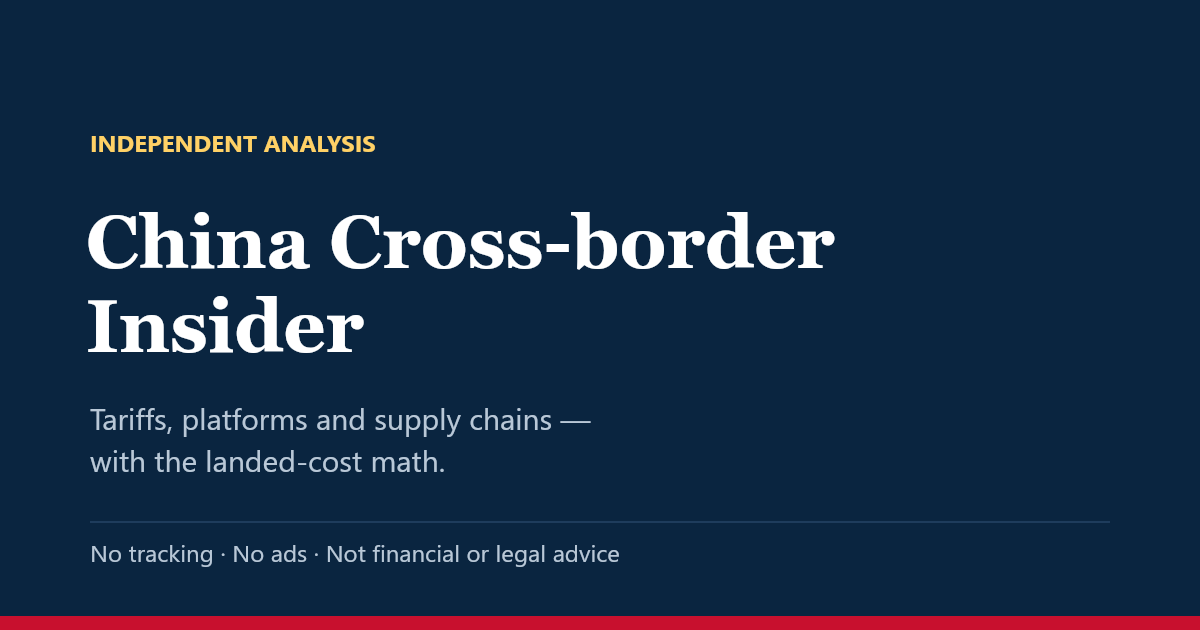
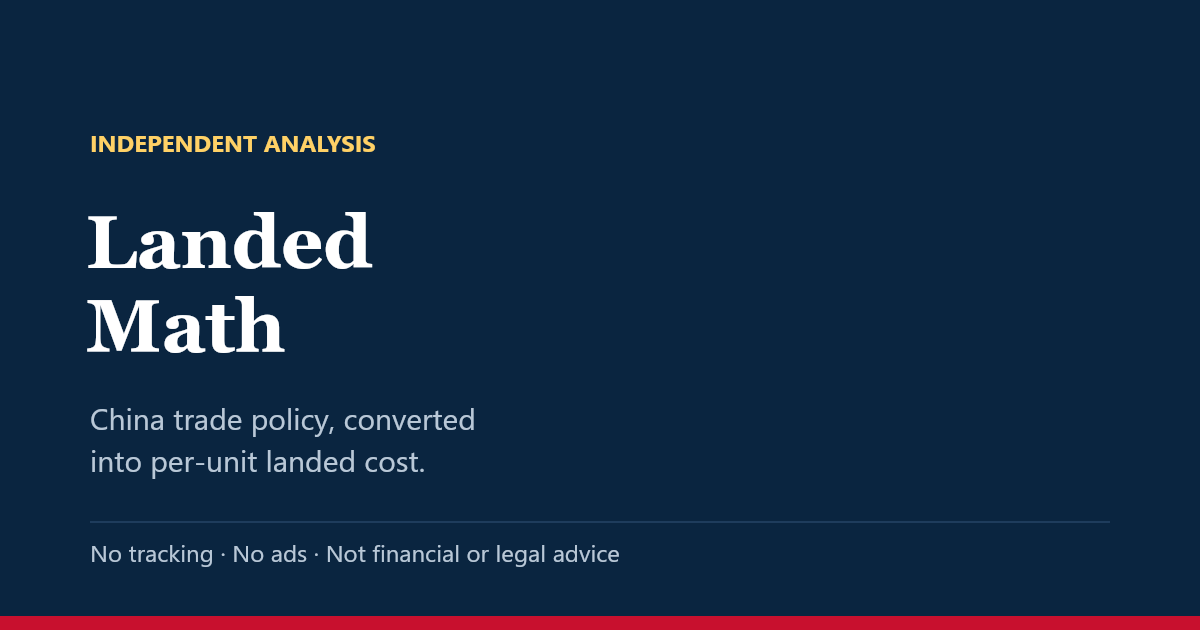
rebrand: China Cross-border Insider -> Landed Math on landedmath.com
- SITE_URL now points at the registered domain landedmath.com

- Site name, title, description, favicon monogram and OG card regenerated

- Author aligned to spec v1.2 section 11: pen name V, China Supply Chain Analyst / Shenzhen

- Article JSON-LD author gains jobTitle (E-E-A-T)

- Placeholder posts: fabricated 'seller panel' sources relabelled as illustrative

- README: rename note, deploy status, resolved domain item

diff --git a/src/consts.ts b/src/consts.ts
@@ -4,21 +4,20 @@
  * navigation or the author persona lives here — not scattered in components.
  */
 
-/** Cloudflare Pages production URL.
- *  TODO(user): switch to the custom domain once it is registered and bound
- *  in Cloudflare Pages. Everything SEO-related — canonical, sitemap, RSS,
- *  og:image — derives from this single value, so changing it here is enough. */
-export const SITE_URL = "https://china-cross-border-insider.pages.dev";
+/** Production domain (registered 2026-10-01).
+ *  Everything SEO-related — canonical, sitemap, RSS, og:image — derives from
+ *  this single value, so changing it here is enough. */
+export const SITE_URL = "https://landedmath.com";
 
 export const SITE = {
   url: SITE_URL,
-  name: "China Cross-border Insider",
-  /** Rendered as "China Cross-border <em>Insider</em>" in the logo. */
-  nameHead: "China Cross-border",
-  nameTail: "Insider",
-  title: "China Cross-border Insider — Deep analysis on China trade & e-commerce",
+  name: "Landed Math",
+  /** Rendered as "Landed <em>Math</em>" in the logo. */
+  nameHead: "Landed",
+  nameTail: "Math",
+  title: "Landed Math — China trade policy, converted into landed cost",
   description:
-    "Independent, numbers-first analysis of China cross-border trade, tariffs, platforms and supply chains — written for Amazon, Temu, TikTok Shop and D2C sellers.",
+    "Independent, numbers-first analysis of China trade policy, platform rules and supply chains — converted into per-unit landed cost for Amazon, Temu, TikTok Shop and D2C sellers.",
   tagline: "No tracking · No ads · Independent analysis · Not financial or legal advice",
   language: "en",
   /** Newsletter placeholder — swap for the real provider (Buttondown / ConvertKit) later. */
@@ -61,17 +60,18 @@ export const CATEGORIES = [
 
 export type CategorySlug = (typeof CATEGORIES)[number]["slug"];
 
-/** spec §1 + §6 — persona. Placeholder text until the user supplies real details. */
+/** spec v1.2 §11 — pen name, role and location. */
 export const AUTHOR = {
-  name: "Cross-border Veteran",
-  initials: "CV",
+  name: "V",
+  initials: "V",
+  role: "China Supply Chain Analyst · Shenzhen",
   avatar: "", // e.g. "/images/author.jpg" once a real photo exists
   shortBio:
-    "10 years selling on Amazon, Temu, TikTok Shop and D2C. Broke everything once. Here so you don't have to.",
+    "China Supply Chain Analyst. Based in Shenzhen, tracking trade policy, platform rules and factory-level cost shifts for global sellers.",
   longBio:
-    "10 years in cross-border e-commerce. Based in China, selling globally. No agency, no sponsorship, no agenda.",
-  /** TODO(user): replace with the real contact mailbox. */
-  email: "hello@crossborderinsider.pages.dev",
+    "China Supply Chain Analyst, based in Shenzhen. Tracking trade policy, platform rules and factory-level cost shifts for sellers in the US and EU. No agency, no sponsorship, no agenda.",
+  /** TODO(user): enable Cloudflare Email Routing so this address actually delivers. */
+  email: "hello@landedmath.com",
 };
 
 /** spec §3 — footer. */

diff --git a/src/styles/global.css b/src/styles/global.css
@@ -436,6 +436,15 @@ a {
   margin-bottom: 4px;
 }
 
+.author-card .author-role {
+  font-size: 11px;
+  text-transform: uppercase;
+  letter-spacing: 1px;
+  color: var(--c-red);
+  font-weight: 600;
+  margin-bottom: 8px;
+}
+
 .author-card p {
   font-size: 12px;
   color: var(--c-ink-5);

diff --git a/README.md b/README.md
@@ -1,6 +1,10 @@
-# China Cross-border Insider
+# Landed Math
 
-跨境英文内容站（暂定名）。技术栈：**Astro 7 + GitHub + Cloudflare Pages**，纯静态、无服务器、无数据库。
+> **2026-10-01 改名**：项目原名 "China Cross-border Insider"（暂定名），域名 `crossborderinsider.com` 已被占用，
+> 正式定名为 **Landed Math**（域名 `landedmath.com`）。改名同时避开了与 Business Insider 的商标临近风险。
+> 仓库名与 Cloudflare Pages 项目名仍是历史名 `china-cross-border-insider`，不影响使用。
+
+跨境英文内容站。技术栈：**Astro 7 + GitHub + Cloudflare Pages**，纯静态、无服务器、无数据库。
 
 本仓库有三层内容，对应三个文件/目录：
 
@@ -202,15 +206,17 @@ Hook 段（不写小标题，直接抛反常识问题）
 
 ## 五、部署到 Cloudflare Pages
 
-1. 把本目录推到 GitHub 仓库。
-2. Cloudflare Pages → Create project → Connect to Git，选该仓库。
-3. 构建设置：
+**状态：已上线** —— 仓库 `tmj518/china-cross-border-insider`，CF Pages 项目同名，正式域名 `landedmath.com`。
+
+1. ~~推到 GitHub 仓库~~ ✅
+2. ~~Cloudflare Pages → Create project → Connect to Git~~ ✅
+3. 构建设置（已配置）：
    - Framework preset：**Astro**
    - Build command：`pnpm build`
    - Build output directory：`dist`
-   - Node 版本：读取 `.nvmrc`（24），或设环境变量 `NODE_VERSION=24`
-4. 部署后把域名填回 `src/consts.ts` 的 `SITE_URL`（现在临时用 `crossborderinsider.pages.dev`），
-   canonical / sitemap / RSS / og:image 全部从这一处取值，改一处即可。
+   - 环境变量：`NODE_VERSION=24`
+4. ~~域名~~ ✅ 已注册 `landedmath.com` 并绑定到 CF Pages 的 Custom domains；
+   `src/consts.ts` 的 `SITE_URL` 已指向它 —— canonical / sitemap / RSS / og:image 全部从这一处取值，改一处即可。
 
 ## 六、相对原型做的改动
 
@@ -234,10 +240,10 @@ Hook 段（不写小标题，直接抛反常识问题）
 
 | # | 事项 | 现状 |
 | --- | --- | --- |
-| 1 | **正式域名** | 临时用 `crossborderinsider.pages.dev`，见 `src/consts.ts` |
+| 1 | ~~**正式域名**~~ | ✅ 已定 `landedmath.com`（2026-10-01 注册，Cloudflare Registrar，$10.46/年） |
 | 2 | **金色 `#ffd166`** | 规范 §3 只定义了三色，原型多用了这个金色（kicker / 页脚 hover）。要么写进规范，要么去掉 |
 | 3 | **P0/P1/P2 体系** | 规范里没有定义，原型已在用。需要补一段判定标准 |
-| 4 | **作者真实信息** | 笔名、年限、平台、真实头像、联系邮箱都在 `src/consts.ts` 里是占位值 |
+| 4 | **作者信息** | 已按 v1.2 §11 对齐：笔名 `V`、China Supply Chain Analyst · Shenzhen。**仍缺真实头像**（`AUTHOR.avatar`），以及 `hello@landedmath.com` 需要开 Cloudflare Email Routing 才能真正收信 |
 | 5 | **配图规范** | 现在只有渐变/emoji 占位。建议定：1200×750、(16:10)、alt 必须写、单张 <200KB |
 | 6 | **订阅后端** | `newsletterAction` 为空 |
 | 7 | **LinkedIn / X** | 可选，暂未加 |

diff --git a/项目规范_英文内容站_v1.3_修订建议清单.md b/项目规范_英文内容站_v1.3_修订建议清单.md
@@ -425,7 +425,7 @@ v1.2 §8.1 要求的"第一人称经验"，在**没有人提供经历**的前提
 
 | # | 事项 | 现状 | 需要你决定 |
 | :--- | :--- | :--- | :--- |
-| 1 | **正式域名** | `crossborderinsider.pages.dev` 占位 | 定了吗？canonical/sitemap/RSS/og 全依赖它 |
+| 1 | **正式域名** | ✅ 已定：`landedmath.com`（2026-10-01 注册）。项目同时正式更名为 **Landed Math**，`SITE_URL` 已指向该域名 |
 | 2 | **目录与 URL** | 仓库用 `blog`，规范用 `posts` | 建议定 `/posts/` |
 | 3 | **每篇几张图** | 规范未写 | 决定 R8 的图床方案 |
 | 4 | **邮件列表服务** | 未定 | Buttondown / ConvertKit / MailerLite / 其他 |

diff --git a/src/content/blog/temu-semi-managed-traffic-shift.md b/src/content/blog/temu-semi-managed-traffic-shift.md
@@ -7,7 +7,7 @@ tags: ["temu", "semi-managed", "traffic allocation"]
 priority: "P1"
 sources:
   - "Temu Seller Center, semi-managed program documentation, Q3 2026"
-  - "China Cross-border Insider seller panel, 268 Temu stores"
+  - "ILLUSTRATIVE — placeholder figure, no real panel behind it; replace before launch"
   - "General Administration of Customs of the PRC, cross-border e-commerce exports, August 2026"
 ---
 

diff --git a/src/content/blog/tiktok-shop-us-sps-score-oct-15.md b/src/content/blog/tiktok-shop-us-sps-score-oct-15.md
@@ -8,7 +8,7 @@ priority: "P1"
 sources:
   - "TikTok Shop US Seller Center policy notice, September 2026"
   - "TikTok Shop US Seller Performance Score documentation"
-  - "China Cross-border Insider seller panel, 412 US-registered stores"
+  - "ILLUSTRATIVE — placeholder figure, no real panel behind it; replace before launch"
 ---
 
 <!-- SAMPLE POST: skeleton placeholder, replace before launch. -->
